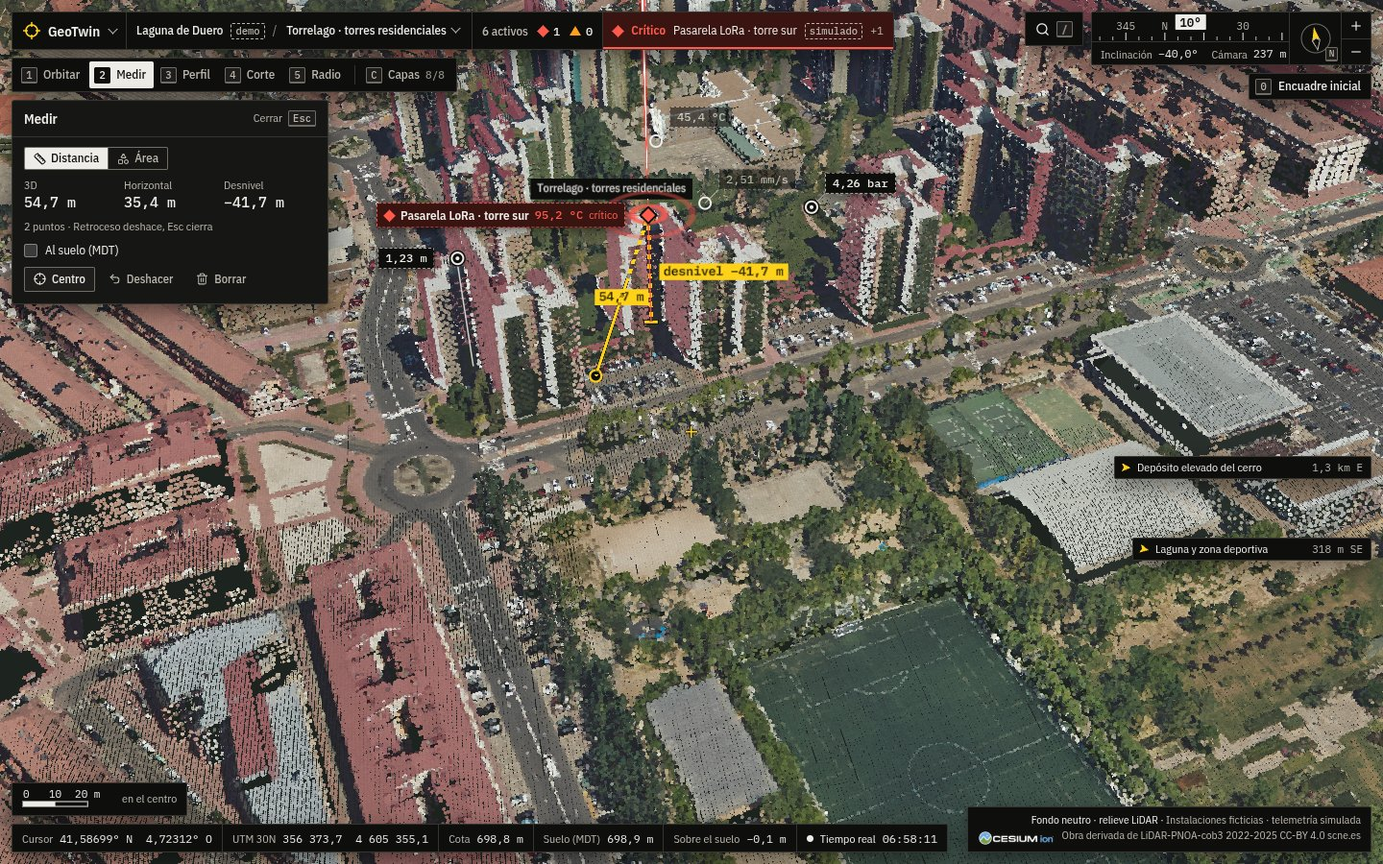
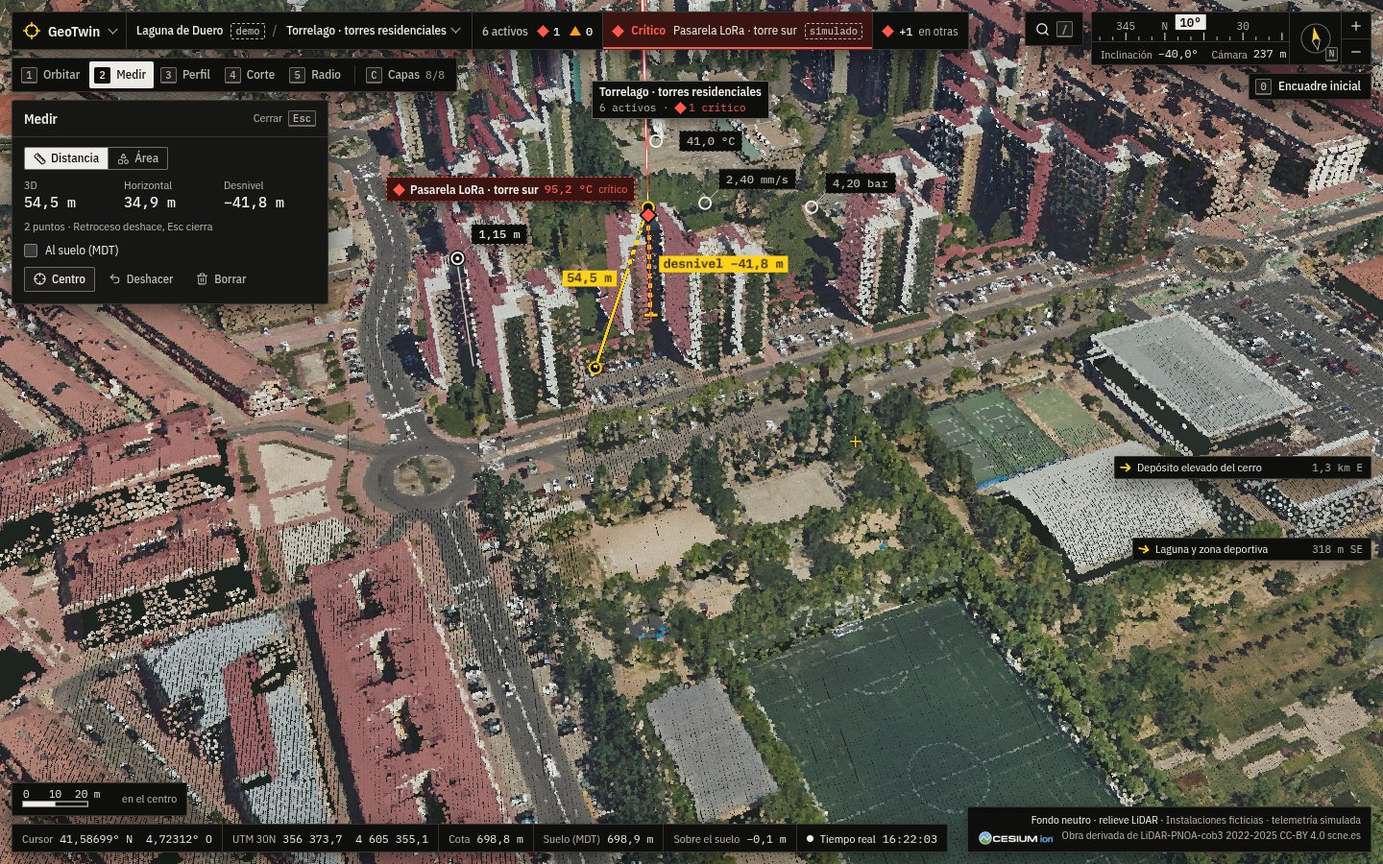
docs: Capas ruler, the relief refresh, what remains, and new screenshots
ui-estacion-total.md §11: the ruler, the in-place relief refresh, the
resize guard and the profile redraw move to the done list; «Pendiente»
keeps only the real orthophoto, Google for real and the old 40 s video,
and the two deliberate differences from the mockup get their own list.
verification.md: what was found and measured for each note, the new
specs in the coverage list, and the six docs/screenshots retaken with
the eight real sheets (web of 0c7b5dc, the profile with d619042).
README: the Altura legend and the screenshots' revision.

Claude-Session: https://claude.ai/code/session_01BEvotRhPSGFhtZzXa95Uqt

diff --git a/docs/verification.md b/docs/verification.md
@@ -40,7 +40,7 @@ Registro de las verificaciones realizadas, con fecha, revisión y entorno. Los c
 
 Estado tras el paso B5, el último de la interfaz «Estación total» (rama `feat/estacion-total`, 18/10/2026). Los recuentos del registro de abajo son los de su fecha.
 
-**Unitarias (329, `npm test`).** Simulador (umbrales y generador), contratos compartidos, almacenamiento, detección LAS/LAZ y máquina de estados del worker, geoide, cliente REST, formato en español, rutas compartibles (`/` lleva a `/gemelo`, hojas y enlaces antiguos), caché realtime, carga de Cesium ion, Fotorrealista, fondo PNOA con sus caídas (WMTS, copia local, fondo neutro), estilos de la nube, MDT y relieve, geodesia de Medir, etiquetas de las instalaciones y, del HUD: UTM 30N frente a pyproj, lectura del cursor, escala, colocación de la ficha, chips de borde, atajos y su regla de campos editables, búsqueda de «Ir a», encuadre con lo que tapan las placas en los cuatro bordes (también una hoja de sección corta a la izquierda y las placas apiladas sobre la hoja del móvil), alturas de las hojas del móvil (arrastre, teclas, cierre y foco atrapado), orden de pantalla de la lista de activos; de la escena: colocación de las etiquetas (prioridad, nivel de detalle por distancia, sin solapes, la que no cabe se oculta), regla de oclusión (2 de 3 lecturas, 3 m y más lejos el 0,4 % de la distancia), geometría del haz (normal geodésica, 250 y 60 m), valores de las etiquetas con coma decimal y su `aria-label` terminado en «simulado», cotas (puntos, posición de los valores, total, área, desnivel y altura de montaje) y la tecla R; del perfil y el corte: lectura de los `.pnts` (posiciones cuantizadas, `RTC_CENTER`, transformaciones, clase por `BATCH_ID`), muestreo del MDT a lo largo de A–B, unión de capas, percentil 95 de la clase 6 menos el MDT, CSV con `;` y coma decimal, polígonos de corte (delante y franja), signo de los planos y la matriz de `ClippingPlaneCollection`, el anillo de Radio y el sitio de su etiqueta, y que con un perfil los activos operativos se quedan con la marca; que las etiquetas y los rótulos evitan también los chips de borde (`sceneBlockers`) y que la etiqueta de una alerta tapada no se atenúa (`fadesTag`); tras la segunda verificación, los chips solo para lo que no se ve, tres como mucho y apartados de una ficha flotante (`outOfSight`, `pickChips`, `placeChips`), la espera a que las placas se asienten (`whenSteady`), la colocación en pantalla de los valores de las cotas (`label-layout.ts`: fuera de su tramo, en escalones y en forma corta), el valor de montaje libre de marcas (`placeValue`), los rótulos un escalón más lejos antes de tapar una marca, el punto del perfil afinado sobre el MDT (`refineOnGround`) y el mensaje de alerta sin el «telemetría simulada» repetido; y **contraste**: `contrast.unit.test.ts` comprueba que los tokens de `globals.css` y `styles/tokens.ts` coinciden, que todo par de texto llega a 4,5:1 y todo borde de control y anillo de foco a 3:1.
+**Unitarias (329, `npm test`).** Simulador (umbrales y generador), contratos compartidos, almacenamiento, detección LAS/LAZ y máquina de estados del worker, geoide, cliente REST, formato en español, rutas compartibles (`/` lleva a `/gemelo`, hojas y enlaces antiguos), caché realtime, carga de Cesium ion, Fotorrealista, fondo PNOA con sus caídas (WMTS, copia local, fondo neutro), estilos de la nube, MDT y relieve, geodesia de Medir, etiquetas de las instalaciones y, del HUD: UTM 30N frente a pyproj, lectura del cursor, escala, colocación de la ficha, chips de borde, atajos y su regla de campos editables, búsqueda de «Ir a», encuadre con lo que tapan las placas en los cuatro bordes (también una hoja de sección corta a la izquierda y las placas apiladas sobre la hoja del móvil), alturas de las hojas del móvil (arrastre, teclas, cierre y foco atrapado), orden de pantalla de la lista de activos; de la escena: colocación de las etiquetas (prioridad, nivel de detalle por distancia, sin solapes, la que no cabe se oculta), regla de oclusión (2 de 3 lecturas, 3 m y más lejos el 0,4 % de la distancia), geometría del haz (normal geodésica, 250 y 60 m), valores de las etiquetas con coma decimal y su `aria-label` terminado en «simulado», cotas (puntos, posición de los valores, total, área, desnivel y altura de montaje) y la tecla R; del perfil y el corte: lectura de los `.pnts` (posiciones cuantizadas, `RTC_CENTER`, transformaciones, clase por `BATCH_ID`), muestreo del MDT a lo largo de A–B, unión de capas, percentil 95 de la clase 6 menos el MDT, CSV con `;` y coma decimal, polígonos de corte (delante y franja), signo de los planos y la matriz de `ClippingPlaneCollection`, el anillo de Radio y el sitio de su etiqueta, y que con un perfil los activos operativos se quedan con la marca; que las etiquetas y los rótulos evitan también los chips de borde (`sceneBlockers`) y que la etiqueta de una alerta tapada no se atenúa (`fadesTag`); tras la segunda verificación, los chips solo para lo que no se ve, tres como mucho y apartados de una ficha flotante (`outOfSight`, `pickChips`, `placeChips`), la espera a que las placas se asienten (`whenSteady`), la colocación en pantalla de los valores de las cotas (`label-layout.ts`: fuera de su tramo, en escalones y en forma corta), el valor de montaje libre de marcas (`placeValue`), los rótulos un escalón más lejos antes de tapar una marca, el punto del perfil afinado sobre el MDT (`refineOnGround`) y el mensaje de alerta sin el «telemetría simulada» repetido; tras la cuarta, el rango común de Altura para todas las hojas (cada una con su N) y las marcas de la regla «Cota m», y la recarga del relieve en su sitio (`refreshStep`: las teselas antiguas vuelven a cargar sin soltar su malla, que se libera una sola vez); y **contraste**: `contrast.unit.test.ts` comprueba que los tokens de `globals.css` y `styles/tokens.ts` coinciden, que todo par de texto llega a 4,5:1 y todo borde de control y anillo de foco a 3:1.
 
 **Integración (46 + 1 de S3 sin servidor), con PostgreSQL/PostGIS real.** API (salud, OpenAPI, contratos, validación 400/404/413/415, cabeceras), proximidad `ST_DWithin`, índices GiST, tick del simulador y publicación tras COMMIT, incidencias (inyección, deduplicación, escalado, resolución, recuperación natural; «Reconocer»: 200, idempotente, 404, 400, `alert:updated` por WebSocket, sigue activa, un escalado la deja sin reconocer, y su operación en OpenAPI), WebSocket, seeds, y el pipeline LiDAR completo con el LAZ sintético (subida, cola, worker con py3dtiles, teselas, MDT, reproceso, borrado). El corte `section` sobre esa capa devuelve exactamente los puntos de la franja que calcula `section_reference.py` con laspy sobre el LAZ original (menos las clases excluidas), responde 400, 404, 409 y 413 y está en OpenAPI.
 
@@ -54,7 +54,9 @@ Estado tras el paso B5, el último de la interfaz «Estación total» (rama `fea
 - `phone.spec.ts` (390 × 844): nada desborda el ancho (página, hojas, placas), botones de 44 px o más y sin tecla Radio; la hoja del activo al 25, 45 y 90 %, con teclado y arrastre, modal solo al 90 % y con el foco atrapado; Histórico la sube al 90 %, Cercanos y radio abre Radio, Esc y un arrastre hacia abajo la cierran; los créditos CC-BY quedan enteros por encima de la ficha (45 y 90 %), Medir, Capas y Resumen; la fila de alarma de la placa superior abre Alertas.
 - `map-overlays.spec.ts`: encuadre de la red y de una instalación fuera de las placas con Capas abierto (1280 y 1440 px); créditos sin tapar con Capas, con el aviso de ortofoto no disponible y con la nota de relieve, en escritorio y móvil; en el móvil, Medir deja los créditos encima y las etiquetas de las instalaciones no se solapan ni quedan bajo la barra.
 - `base-imagery.spec.ts`: ortofoto de prueba drapeada con su crédito, CORS bloqueado (WMTS), caída a mitad de sesión, copia local y fondo neutro cuando todo falla.
-- `layers.spec.ts`: subida por Capas → worker → teselas en el mapa, relieve del LiDAR, estilos, Híbrido, clases y medición, con la cota dibujada (línea y valor igual al del panel).
+- `layers.spec.ts`: subida por Capas → worker → teselas en el mapa, relieve del LiDAR, estilos, Híbrido, clases y medición, con la cota dibujada (línea y valor igual al del panel); en Altura, la regla «Cota m» con el rango común de las hojas, la frase de Capas con coma decimal y el primer tramo de color de cada nube en la misma cota.
+- `terrain-refresh.spec.ts` (capa sintética): rehacer el relieve con un proveedor nuevo deja fotogramas sin ninguna tesela de suelo; rehacerlo en su sitio, ninguno.
+- `resize-guard.spec.ts`: la guarda de «ResizeObserver loop» oye también una segunda página del contexto.
 - `scene-tags.spec.ts`: una alerta inyectada pone la etiqueta en crítico (rombo, nombre, valor con coma decimal y «crítico»), un haz (`data-beams="1"`) y sus anillos; «Reconocer» los apaga (`data-pulses="0"`) y el haz sigue hasta «Resolver»; las etiquetas de operativos muestran valores con coma decimal y todas terminan su `aria-label` en «simulado»; la lista oculta repite el valor; la tecla R reconoce desde la ficha y Alertas reconoce una fila sin cerrarla.
 - `deep-link.spec.ts`: un enlace a un activo en una página nueva deja la cámara sobre el suelo LiDAR.
 - `photorealistic.spec.ts`: Fotorrealista con un servidor ion local, sus errores y el reintento.
@@ -403,6 +405,28 @@ Dos arreglos más que salieron al mirar las capturas: con una instalación elegi
 En local, sobre `037de3a`: lint, formato, tipos, unitarias 383/383 (45 ficheros) y compilación. E2E de las especificaciones tocadas (`hud`, `profile`, `phone`, `map-overlays`, `accessibility`, `deep-link`, `scene-tags`, `layout-errors` y `demo`): 41/42 en la primera pasada; la de `F` falló porque el vuelo de la selección seguía en marcha cuando la prueba movía la cámara, y con el vuelo cancelado pasa 3/3 con `--repeat-each`. Tras los dos últimos arreglos, `hud`, `map-overlays`, `phone` y `scene-tags` 33/33. La suite completa queda para el grupo siguiente.
 
 CI: las ejecuciones de la rama no llegan a empezar desde `9dda86d` («recent account payments have failed or your spending limit needs to be increased», facturación de GitHub); las comprobaciones son las locales de arriba.
+
+### Notas menores de la cuarta verificación: Capas, relieve, pruebas y documentación (19/10/2026)
+
+El último grupo de notas. Capturas de antes y después con hojas reales y fondo neutro; el antes, con una copia de `d3944e4` (la web anterior, sacada con `git archive` fuera del árbol de trabajo).
+
+- **Leyenda de Altura**: cada hoja coloreaba su propio rango, así que el mismo color era otra altura en la hoja de al lado, y Capas solo podía decir «baja → alta». Con cuatro hojas, el primer tramo de color acababa en 764,4, 757,3, 752,0 y 755,9 m elipsoidales según la hoja; ahora en 754,4 m en las cuatro (± 2 cm de la N de cada una): una sola cota, 701,3 m. La barra pasa a ser la regla vertical «Cota m» de `A/desktop-capas.png`, bajo «Encuadre inicial», con marcas de 680 a 780 m cada 20 m, la cota del cursor en amarillo (733,8 m) y el suelo en blanco (700,0 m), las mismas cifras que la lectura de abajo; Capas dice «Cota de 692,8 a 769,5 m, el mismo rango en las 4 hojas» (con las ocho, de 692,3 a 769,5 m). En el móvil la regla va dentro de Capas. Unitarias (`cotaRange`, `sharedCotaRange`, `heightLegend`, `sheetRampRange` y `rulerScale`, que da 690 a 750 cada 10 m para el rango de la maqueta); `layers.spec.ts` comprueba la regla, el rango y que el primer tramo de cada nube cae en la misma cota.
+- **Suelo en blanco al llegar una hoja**: reproducido subiendo una hoja con la página abierta y guardando el número de teselas del globo de cada fotograma. Antes, 41,5 s después de que la API diera la hoja por lista (lo que tardan el aviso por WebSocket y la descarga del MDT), el relieve cambió de proveedor: tres fotogramas sin ninguna tesela de suelo, el suelo blanco bajo la nube y la escala con «el centro de la vista no mira al suelo», y durante los dos minutos siguientes el globo con una sola tesela (la escala decía «0 250 500 m»). Después, con otra hoja: el mismo proveedor, nunca menos de 4 teselas, ningún aviso de la escala. Cesium suelta todas las teselas al cambiar de proveedor (`GlobeSurfaceTileProvider` invalida el árbol); ahora las alturas cambian dentro del mismo proveedor y las teselas se recargan sin dejar de dibujarse (`terrain-refresh.ts`, unitarias). `terrain-refresh.spec.ts` rehace el relieve sobre la capa sintética de las dos maneras: con un proveedor nuevo hay fotogramas sin teselas; en su sitio, ninguno.
+- **Guarda de «ResizeObserver loop»**: escuchaba solo la página de la prueba. Ahora escucha todas las del contexto (el observador de `demo.spec.ts`, por ejemplo) y el mensaje dice de qué página viene. `resize-guard.spec.ts` abre una segunda página que provoca el error y comprueba que la guarda lo oye; con la guarda anterior falla.
+- **Documentación**: `ui-estacion-total.md` deja como pendiente solo la ortofoto real, Google de verdad y el vídeo de 40 s; las capturas de `docs/screenshots/` se repitieron con las ocho hojas (abajo).
+
+**Capturas de `docs/screenshots/` repetidas** el 19/10/2026 con la web de `b643995` (la última con cambios en la web; lo que viene después es documentación), las mismas vistas y el mismo método que en B5: las ocho hojas reales (47,7 M puntos), fondo Neutro, calidad Media, Chromium 141 con SwiftShader, 1440 × 900 y 390 × 844 con DPR 2, JPEG de calidad 85. Las alertas son las dos anomalías **simuladas** críticas (pasarela de la torre sur, 95,2 °C, y sonda de la laguna, 2,35 m), con el simulador periódico parado para que no salieran advertencias nuevas durante las capturas. Lo que ha cambiado respecto a las de B5:
+
+| Captura                       | Qué cambia                                                                                                                                                                                                                                                                                                                                                                                                                                                    |
+| ----------------------------- | ------------------------------------------------------------------------------------------------------------------------------------------------------------------------------------------------------------------------------------------------------------------------------------------------------------------------------------------------------------------------------------------------------------------------------------------------------------- |
+| `estacion-vista-general.jpg`  | Rótulos de instalación con recuentos («6 activos · ◆ 1 crítico»), como en C; anunciador «◆ 2 ▲ 0» y «+1»; el resto, igual (cámara 150°/−30°, cota 733,8 m, suelo 700,0 m, +33,8 m).                                                                                                                                                                                                                                                                           |
+| `estacion-capas.jpg`          | La regla «Cota m» de `A/desktop-capas.png` a la derecha, de 680 a 780 m, con la cota del cursor (733,8 m, amarilla) y el suelo (700,0 m); Capas dice «Cota de 692,3 a 769,5 m, el mismo rango en las 8 hojas», y todas las hojas tienen el mismo color a la misma cota (en B5 cada una iba de su mínimo a su máximo).                                                                                                                                         |
+| `estacion-alerta.jpg`         | «Centrar activo (F)» junto a «Encuadre inicial»; el anunciador sigue a la instalación elegida («Laguna y zona deportiva»: 6 activos, ◆ 1) y la otra crítica va en «+1 en otras»; chips de borde hacia el depósito y Torrelago.                                                                                                                                                                                                                                |
+| `estacion-movil.jpg`          | Fila de alarma de Torrelago y «+1 en otras instalaciones»; los tres botones de la ficha al 45 % enteros por encima de la barra.                                                                                                                                                                                                                                                                                                                               |
+| `estacion-perfil-corte.jpg`   | Con el puntero sobre el gráfico (como en `A/desktop-signature.png`), la placa de abajo lee el punto del cursor: «Desde A 245,5 m · 41,58944° N 4,72591° O · Cota 742,4 m · Suelo (MDT) 701,3 m · +41,1 m», las cifras de la maqueta; E1…E4 = 29,5 · 37,9 · 38,0 · 41,1 m y 8.287 puntos, como en B5. Tomada con `2684544`: la primera, con el puntero en el gráfico, salió sin la línea A–B, el contorno del plano ni las cotas de los edificios (ver abajo). |
+| `estacion-medicion-torre.jpg` | Rótulo de Torrelago con recuentos, anunciador de la instalación con «+1 en otras» y chips de borde; la medida da 54,5 m en 3D, 34,9 m en horizontal y **−41,8 m** de desnivel (B5: 54,7, 35,4 y −41,7; la comprobación independiente, 41,8 m). La alerta de la pasarela está reconocida en esta captura: con los anillos del pulso, el clic de la cubierta caía sobre ellos y daba −43,7 m.                                                                   |
+
+Un arreglo más, salido de la captura del perfil: con el puntero en el gráfico desaparecían de la escena la línea A–B, el contorno del plano y las cotas de los edificios. `useProfile` da un objeto nuevo en cada render, así que cada movimiento del cursor daba a la escena un resumen nuevo y la herramienta lo redibujaba todo; al vaciar la colección, Cesium se queda sin nada que mostrar hasta construir la geometría nueva. Ahora el resumen cambia solo con los datos del perfil y un movimiento del cursor mueve solo su marca (`profile-tool.ts`); `profile.spec.ts` comprueba que la línea sigue siendo la misma entidad tras mover el cursor.
 
 ## Límites del entorno
 

diff --git a/README.md b/README.md
@@ -8,15 +8,15 @@
 
 ![Interfaz «Estación total» sobre las ocho hojas PNOA-LiDAR reales de Laguna de Duero: placas flotantes, etiquetas de los sensores en la escena y un haz sobre cada alerta simulada](docs/screenshots/estacion-vista-general.jpg)
 
-| Activo con una alerta **simulada**: haz, anillos y ficha flotante                                      | Capas, con la nube coloreada por altura                                      |
-| ------------------------------------------------------------------------------------------------------ | ---------------------------------------------------------------------------- |
-| ![Sonda de nivel de la laguna en crítico, con su haz y su ficha](docs/screenshots/estacion-alerta.jpg) | ![Panel Capas abierto junto a su botón](docs/screenshots/estacion-capas.jpg) |
+| Activo con una alerta **simulada**: haz, anillos y ficha flotante                                      | Capas, con la nube coloreada por altura                                                                                   |
+| ------------------------------------------------------------------------------------------------------ | ------------------------------------------------------------------------------------------------------------------------- |
+| ![Sonda de nivel de la laguna en crítico, con su haz y su ficha](docs/screenshots/estacion-alerta.jpg) | ![Panel Capas abierto junto a su botón y, a la derecha, la regla «Cota m» de Altura](docs/screenshots/estacion-capas.jpg) |
 
 | Perfil A–B sobre Torrelago con el corte atenuado                                                  | Móvil (390 px): placa superior, barra de herramientas y hoja                             |
 | ------------------------------------------------------------------------------------------------- | ---------------------------------------------------------------------------------------- |
 | ![Perfil de 336,2 m con las alturas de cuatro torres](docs/screenshots/estacion-perfil-corte.jpg) | ![Ficha de la pasarela de la torre sur en el móvil](docs/screenshots/estacion-movil.jpg) |
 
-Capturas reales, con las ocho hojas cargadas por la API, hechas con un renderizador por software (SwiftShader) a 1440 × 900 y a 390 × 844 con densidad 2. Bajo la nube se ve el **fondo neutro** (el suelo oscuro), no la ortofoto: la release `data-laguna` aún no trae `pnoa-laguna-z13-19.zip` y desde el entorno de las capturas no se llega a los servidores del IGN. Las instalaciones son ficticias y sus lecturas y alertas, **simuladas**. Nube: _Obra derivada de LiDAR-PNOA-cob3 2022-2025 CC-BY 4.0 scne.es_.
+Capturas reales, con las ocho hojas cargadas por la API, hechas con un renderizador por software (SwiftShader) a 1440 × 900 y a 390 × 844 con densidad 2, repetidas el 19/10/2026 con la web de `b643995` (el perfil, con `2684544`). Bajo la nube se ve el **fondo neutro** (el suelo oscuro), no la ortofoto: la release `data-laguna` aún no trae `pnoa-laguna-z13-19.zip` y desde el entorno de las capturas no se llega a los servidores del IGN. Las instalaciones son ficticias y sus lecturas y alertas, **simuladas**. Nube: _Obra derivada de LiDAR-PNOA-cob3 2022-2025 CC-BY 4.0 scne.es_.
 
 **Vídeo (40 s), de la interfaz anterior:** [MP4](docs/video/laguna-demo.mp4) · [WebM](docs/video/laguna-demo.webm). Se grabó antes de la interfaz «Estación total» y muestra la anterior: barra lateral, el mapa dentro de la página con el inspector a la derecha, la etiqueta «MODO BÁSICO · Local · RELIEVE LIDAR» y la nube con los marcadores de entonces. No se ha vuelto a grabar. Recorre la vista general de Laguna de Duero, el descenso a Torrelago, los modos de color, la medición de una torre (41,7 m de desnivel) y una alerta **simulada** en la sonda de la laguna. Grabado fotograma a fotograma en calidad Media con un renderizador por software y el atlas Natural Earth bajo la nube.
 
@@ -175,7 +175,7 @@ El panel **Capas** (tecla `C`; flota junto a su botón, bajo la barra de herrami
 - **Por capa**: mostrar u ocultar, **Ir** (encuadre en la parte de la escena que dejan libre las placas) y **Borrar** con confirmación (borra fila, teselas y original, y cancela el job si aún se procesa). Puntos, tamaño, CRS y ondulación del geoide aplicada aparecen al desplegar la fila.
 - **Atribución**: mientras la capa está visible, su atribución se añade a los créditos de Cesium (las hojas `PNOA_…` traen la de PNOA-LiDAR); varias capas con el mismo texto comparten un crédito, que se va con la última. Se escapa como texto.
 - **Render**: `Cesium3DTileset.fromUrl` sobre `GET /api/layers/:id/tiles/…`. Los puntos se dibujan **redondos** (un `CustomShader` que solo recorta el disco, así que el estilo, la atenuación y el clic no cambian) y la atenuación usa como resolución base la separación media de la capa (py3dtiles deja a 0 el error geométrico de las hojas del árbol y, sin ella, el suelo salía con puntos de un píxel). **Tamaño de punto** fija el máximo (1-8 px; 4 en escritorio y 3 en el móvil: con 3 quedaban huecos a media distancia y con 5-6 los discos parecen escamas). **Calidad** fija el `maximumScreenSpaceError` y la caché de teselas por capa: Baja (16, 64 MB), Media (12, 128 MB) y Alta (3, 256 MB); los móviles y los equipos con poca memoria empiezan en Baja. **Realzar bordes (EDL)**, apagado por defecto, oscurece los saltos de profundidad: ayuda a leer volúmenes pero dibuja contornos. [Antes y después](docs/laguna-de-duero.md#cómo-se-dibuja-la-nube).
-- **Color**: **RGB** (el del fichero), **Altura** (rampa de 9 tramos sobre un solo rango de cota para todas las hojas visibles, la unión de los suyos, así que un color es la misma altura en todas; la regla vertical «Cota m», a la derecha de la escena, da las cotas con marcas cada 10 o 20 m y señala en amarillo la cota bajo el cursor y en blanco el suelo, y Capas dice el rango, «Cota de 692,8 a 769,5 m, el mismo rango en las 4 hojas»; en el móvil la regla va dentro de Capas) o **Clasificación** (códigos ASPRS: suelo 2, vegetación 3-5, edificación 6, agua 9, ruido 7 y 18, tablero de puente 17; el resto en gris). Los filtros **Suelo, Vegetación, Edificios, Agua y Otros** ocultan clases en cualquier modo. Los estilos son expresiones de `Cesium3DTileStyle` que se compilan en el shader de los puntos.
+- **Color**: **RGB** (el del fichero), **Altura** (rampa de 9 tramos sobre un solo rango de cota para todas las hojas visibles, la unión de los suyos, así que un color es la misma altura en todas; la regla vertical «Cota m», a la derecha de la escena, da las cotas con marcas cada 10 o 20 m y señala en amarillo la cota bajo el cursor y en blanco el suelo, y Capas dice el rango, «Cota de 692,3 a 769,5 m, el mismo rango en las 8 hojas»; en el móvil la regla va dentro de Capas) o **Clasificación** (códigos ASPRS: suelo 2, vegetación 3-5, edificación 6, agua 9, ruido 7 y 18, tablero de puente 17; el resto en gris). Los filtros **Suelo, Vegetación, Edificios, Agua y Otros** ocultan clases en cualquier modo. Los estilos son expresiones de `Cesium3DTileStyle` que se compilan en el shader de los puntos.
 - **Puntos: Todos | Híbrido (sin suelo)**: en Híbrido se ocultan las clases de suelo (2) y agua (9), así que el suelo es la ortofoto PNOA drapeada sobre el relieve del LiDAR y los edificios, la vegetación y el resto siguen siendo puntos. Con **Fotorrealista (Google)** encendida, el suelo es la malla de Google (la ortofoto se oculta mientras tanto). Es la misma expresión de estilo que los filtros (no recarga teselas); las casillas Suelo y Agua quedan desmarcadas y bloqueadas, y al volver a Todos recuperan lo que tenías. Activa el relieve del LiDAR si estaba apagado (sin él la foto quedaría muy por debajo de la nube). La ortofoto no es una ortofoto verdadera: las torres salen inclinadas en la foto y en Híbrido se ve su cubierta desplazada junto a los puntos ([detalle](docs/laguna-de-duero.md#ortofoto-pnoa-bajo-la-nube)).
 - **Relieve del LiDAR**: sin Cesium ion el globo es el elipsoide (h = 0) y una nube de Laguna de Duero quedaría unos 750 m por encima del mapa. El MDT de cada capa lista se usa como terreno (`CustomHeightmapTerrainProvider`): la ortofoto se drapea sobre él, los activos se anclan a él y las nubes se dibujan a su altura real. Fuera de las capas, el borde se funde en 400 m con un plano a la altura mediana (orientativo). La casilla **Relieve del LiDAR** lo apaga; con el relieve de ion se usa ese.
 - **Globo básico**: si no hay MDT (una nube sin suelo clasificado) o el relieve está apagado, la nube se dibuja bajada hasta apoyarse en el elipsoide, a lo largo de la vertical local; la casilla **Altura real sobre el globo básico** lo desactiva. Las distancias y los desniveles medidos no cambian, y la rampa de alturas sigue leyendo alturas reales.

diff --git a/docs/ui-estacion-total.md b/docs/ui-estacion-total.md
@@ -333,11 +333,21 @@ Cada paso dejó verdes lint, formato, tipos, unitarias, integración, pytest, bu
 
 - **Dos más, vistos en las capturas**: con una instalación elegida, los rótulos de las demás decían «0 activos · sin alertas» (contaban solo los activos cargados) y ahora cuentan sobre toda la red; y los chips de borde se apartan de las marcas de los activos cuando su borde tiene sitio (en el móvil, el chip del depósito tapaba la marca crítica de la pasarela de Torrelago).
 
-**Pendiente o distinto del diseño.**
+**Tras las notas menores de la cuarta verificación (Capas, relieve, pruebas y documentación).**
+
+- **Leyenda de Altura**: la barra horizontal de «baja» a «alta» de Capas pasa a ser la regla vertical «Cota m» de `A/desktop-capas.png`, bajo «Encuadre inicial» (a la izquierda de una ficha anclada): la rampa de pie, cotas con marcas cada 10 o 20 m y, en amarillo, la cota bajo el cursor con una línea hasta el suelo, en blanco. En el móvil la regla va dentro de Capas. Todas las hojas visibles comparten ahora un solo rango de cota, la unión de los suyos, así que un color es la misma altura en todas; Capas lo dice: «Cota de 692,3 a 769,5 m, el mismo rango en las 8 hojas».
+- **Suelo en blanco al llegar una hoja**: cada vez que una hoja terminaba de procesarse (o se borraba) el relieve cambiaba de proveedor, Cesium soltaba todas las teselas del globo y, hasta recargarlas, no se dibujaba suelo: la escena quedaba en blanco bajo las nubes y la escala decía «el centro de la vista no mira al suelo». Ahora el mismo proveedor toma las alturas nuevas y las teselas se recargan sin dejar de dibujarse (`terrain-refresh.ts`).
+- **Pruebas**: la guarda de «ResizeObserver loop» de las E2E escucha todas las páginas del contexto (también el observador de `demo.spec.ts`).
+- **Perfil**: con el puntero en el gráfico, la línea A–B, el contorno del plano y las cotas de los edificios desaparecían de la escena: cada movimiento del cursor la redibujaba entera. Ahora solo se mueve la marca del cursor.
+- **Capturas** de `docs/screenshots/` repetidas con las ocho hojas reales y el fondo neutro (con la web de `b643995`; el perfil, con `2684544`; ver [verification.md](verification.md)).
+
+**Pendiente.**
 
 - **Ortofoto real.** Ninguna captura la lleva: la release `data-laguna` no trae `pnoa-laguna-z13-19.zip` y el entorno no llega a IDEE ni al IGN. Que esos servidores acepten las peticiones del navegador (CORS) sigue sin comprobarse.
 - **Google Photorealistic 3D Tiles** sigue sin probarse con Google: solo con una malla local que sustituye la respuesta de Cesium ion ([prueba manual](fotorrealista.md#prueba-manual)).
 - **El vídeo de 40 s** es de la interfaz anterior; no se ha vuelto a grabar.
-- **Leyenda de Altura** en Capas: una barra de «baja» a «alta», no la regla vertical con cotas de `A/desktop-capas.png`; con varias hojas cada una usa su propio rango.
-- **Perfil**: con el perfil abierto la franja superior de la escena cuenta entera como tapada para el encuadre, pero desde la segunda verificación los chips de borde solo salen para lo que está fuera de la pantalla o bajo una placa.
+
+**Distinto de la maqueta a propósito.**
+
 - **Encuadre a −45°**: la maqueta mira desde −30° con rumbo 150°; los encuadres miran al norte desde −45°, como la vista cercana de un activo, para que las etiquetas no se amontonen al fondo.
+- **Perfil**: con el perfil abierto, la franja superior de la escena cuenta entera como tapada para el encuadre; los chips de borde, en cambio, solo salen para lo que está fuera de la pantalla o bajo una placa.
